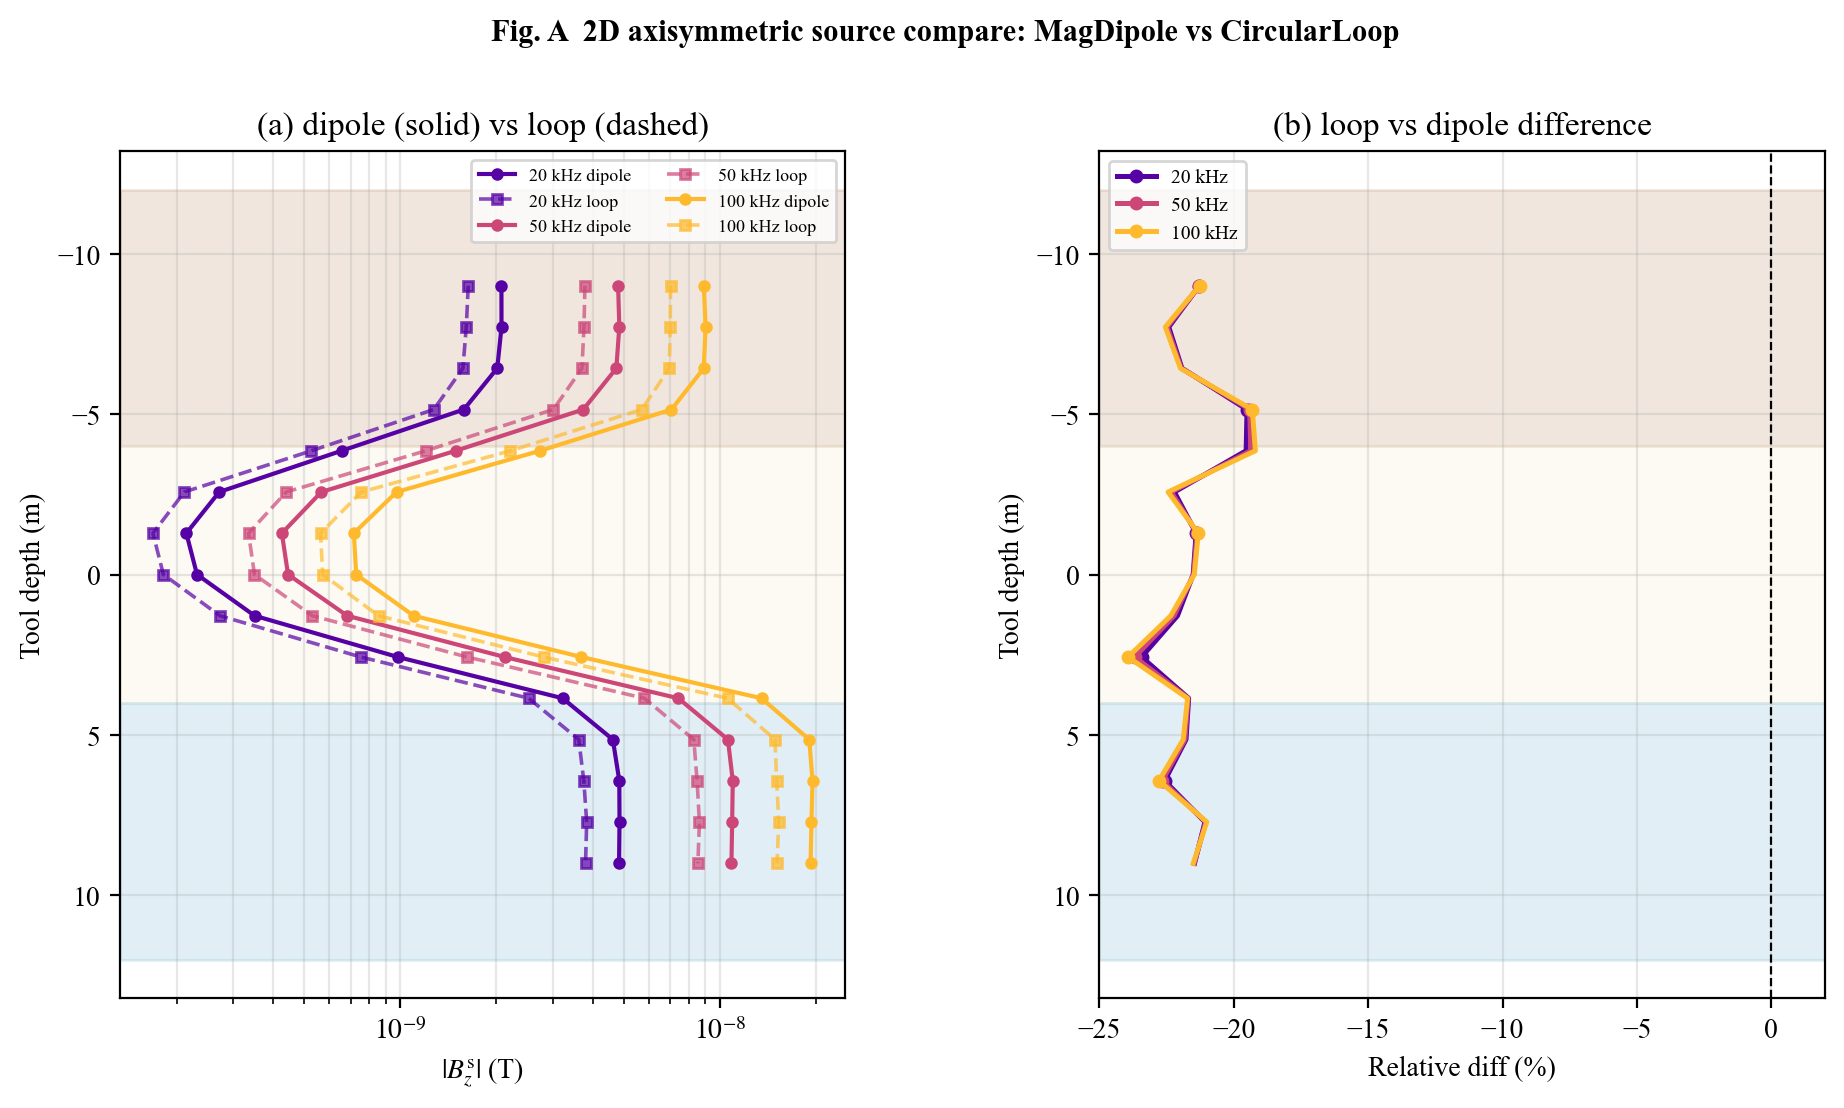
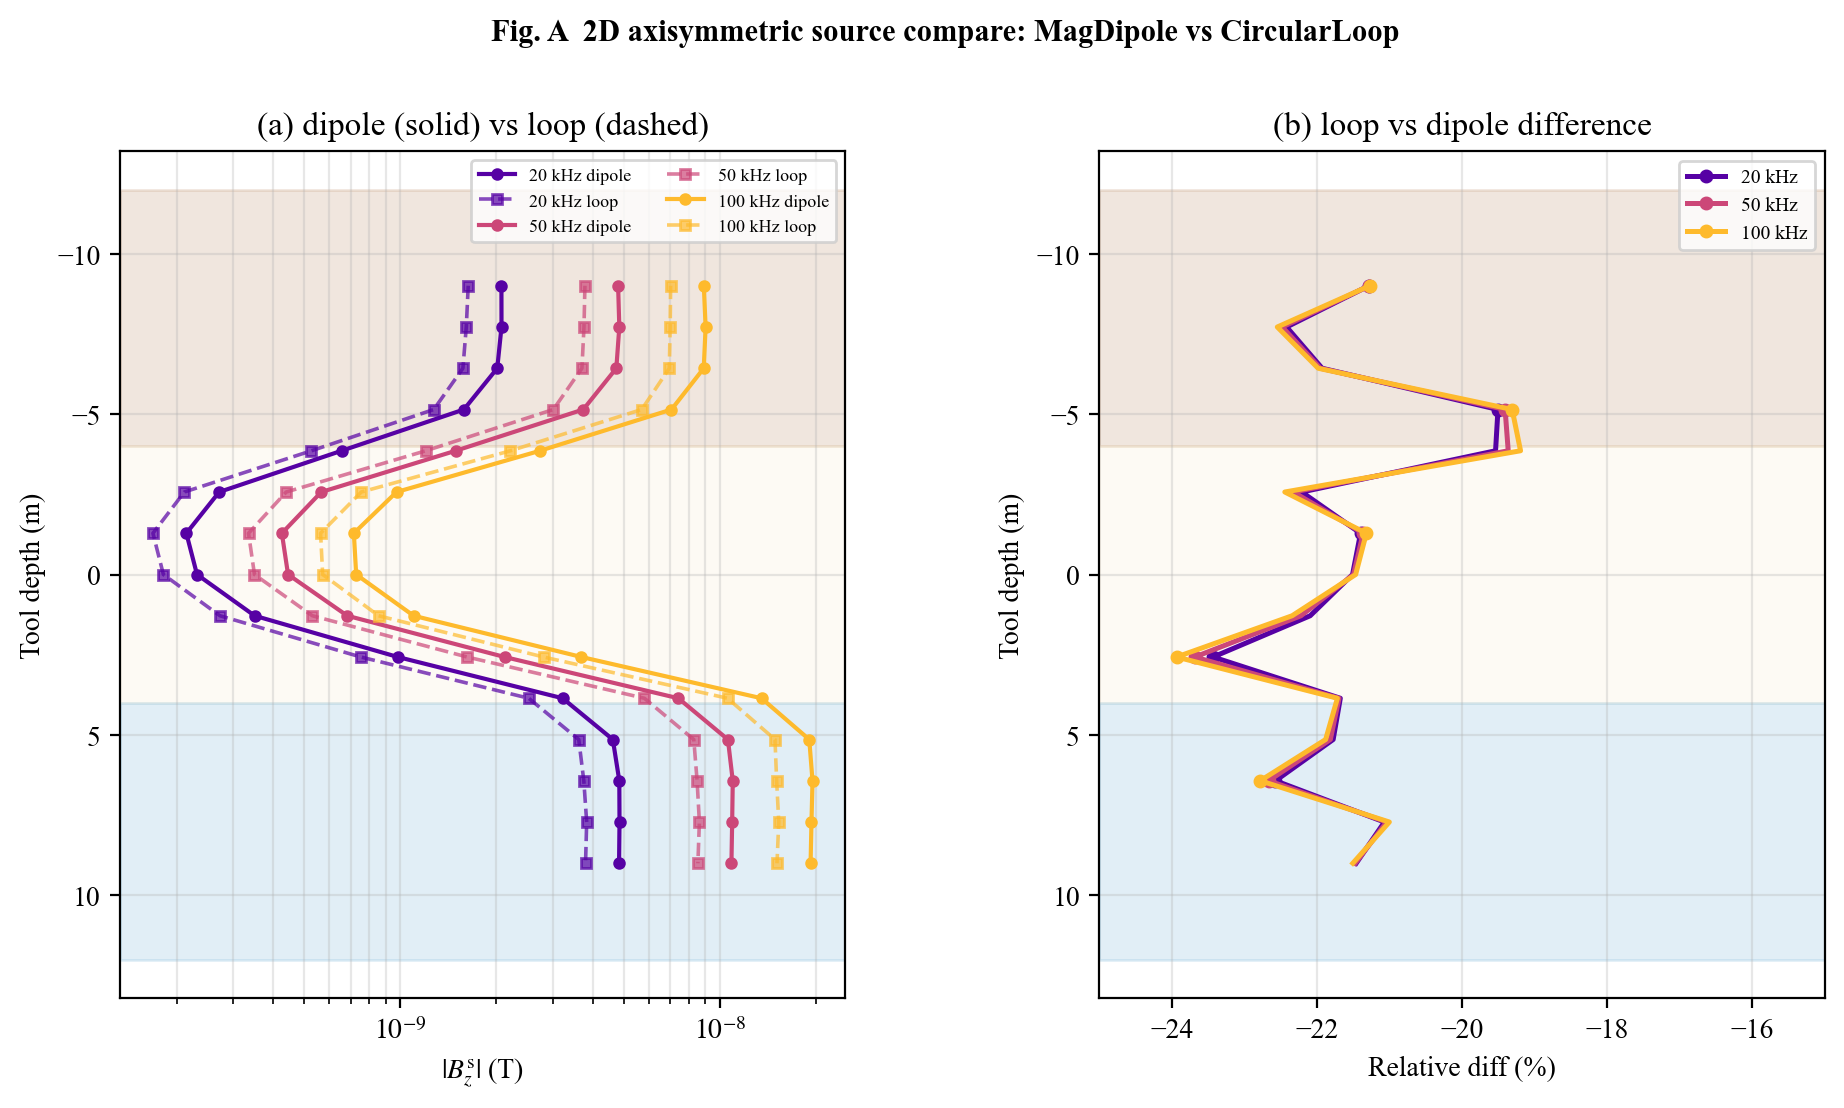
style: vertical_well_advanced 图 A(b) 曲线居中显示
- xlim 从 (-25, 2) 调整为 (-25, -15)，曲线集中在横轴中间

diff --git a/examples/vertical_well_advanced.py b/examples/vertical_well_advanced.py
@@ -132,7 +132,7 @@ def fig_A_source_compare(mesh):
             title=T("(a) 磁偶极子(实) vs 回线(虚)", "(a) dipole (solid) vs loop (dashed)"))
     ax1.legend(fontsize=6.5, ncol=2)
     ax2.axvline(0, color="k", lw=0.8, ls="--")
-    ax2.set_xlim(-25, 2)  # 扩展负半轴，确保曲线完整显示
+    ax2.set_xlim(-25, -15)  # 曲线集中在 -22%~-20%，居中显示
     ax2.set(xlabel=T("相对差异 (%)", "Relative diff (%)"),
             ylabel=T("仪器深度 (m)", "Tool depth (m)"),
             title=T("(b) 回线相对偶极子差异", "(b) loop vs dipole difference"))
